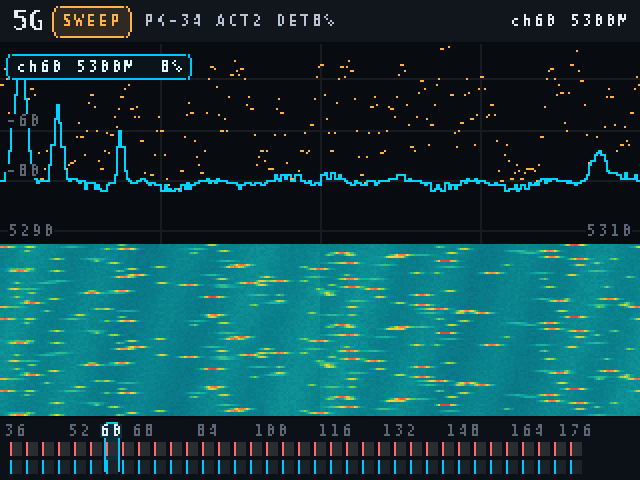
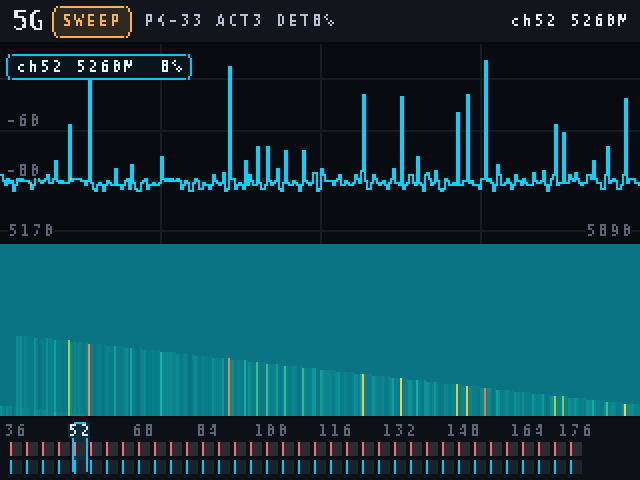
fix(c5): stitch the sweep into a fixed-frequency waterfall
Each acquisition now refreshes only its own channel's slice of a band-wide image,
mirroring the phone app, instead of stretching one 20 MHz window across the whole
screen. The waterfall therefore scrolls over a stable frequency axis, and peak hold
decays 2 dB per completed sweep.

diff --git a/docs/lcd-ui-preview.html b/docs/lcd-ui-preview.html
@@ -154,7 +154,11 @@ let lastStep = 0;
 let acqTick = 0;
 
 const codes = new Uint8Array(FFT_BINS);
-const peak = new Uint8Array(FFT_BINS);
+/* Stitched band image, one entry per pixel column (same idea as the phone app): each
+   acquisition refreshes only its own channel's slice, so the waterfall keeps a fixed
+   frequency axis while the sweep walks across it. */
+const bandCodes = new Uint8Array(320);
+const bandPeak = new Uint8Array(320);
 const chPk = new Uint8Array(36), chAct = new Uint8Array(36), chDet = new Uint8Array(36);
 let haveData = false;
 let pk_db = 0, act_db = 0, det_pct = 0;
@@ -277,8 +281,6 @@ function levelOf(code, h) {
   let lv = ((db - cfg.bottom_db) * h / range) | 0;
   return Math.max(0, Math.min(h, lv));
 }
-function displayBin(x, w) { return ((x * FFT_BINS / w | 0) + FFT_BINS / 2) % FFT_BINS; }
-
 /* ---- 模拟 RF：按信道频率生成稳定的信号 + 每次采集的抖动 ---- */
 function hash32(n) {
   n = (n | 0) ^ 0x9e3779b9;
@@ -331,19 +333,36 @@ function analyse() {
 
 function waterfallPush() {
   const row = wfNext * WF_STRIDE;
-  for (let x = 0; x < W; x++) wf[row + x] = codes[displayBin(x, W)];
+  for (let x = 0; x < W; x++) wf[row + x] = bandCodes[x];
   wfNext = (wfNext + 1) % L.wf_h;
 }
 
 function acquire() {
   const count = bandCount();
-  if (cfg.mode === 0) { scan_index = (scan_index + 1) % count; channel = scan_index; }
+  const sweep = cfg.mode === 0;
+  if (sweep) {
+    scan_index = (scan_index + 1) % count;
+    channel = scan_index;
+    if (scan_index === 0) {
+      /* one full pass done: 2 dB of peak-hold decay, like the phone app */
+      for (let x = 0; x < W; x++) if (bandPeak[x]) bandPeak[x]--;
+    }
+  } else {
+    for (let x = 0; x < W; x++) if (bandPeak[x]) bandPeak[x]--;
+  }
   const mhz = bandMhz(channel);
   makeCodes(mhz, acqTick++, codes);
   haveData = true;
-  for (let j = 0; j < FFT_BINS; j++) {
-    if (codes[j] >= peak[j]) peak[j] = codes[j];
-    else if (peak[j]) peak[j]--;
+  const lo = sweep ? (channel * W / count | 0) : 0;
+  let hi = sweep ? ((channel + 1) * W / count | 0) : W;
+  if (hi <= lo) hi = lo + 1;
+  if (hi > W) hi = W;
+  const span = hi - lo;
+  for (let x = lo; x < hi; x++) {
+    const bin = Math.min(FFT_BINS - 1, ((x - lo) * FFT_BINS / span) | 0);
+    const v = codes[bin];
+    bandCodes[x] = v;
+    if (v >= bandPeak[x]) bandPeak[x] = v;
   }
   analyse();
   const lv = Math.max(0, Math.min(100, Math.trunc((pk_db - (cfg.bottom_db + 4)) * 100 / 50)));
@@ -408,9 +427,8 @@ function renderSpectrum() {
   if (haveData) {
     let prev = -1;
     for (let x = 0; x < w; x++) {
-      const b = displayBin(x, w);
-      const mean = levelOf(codes[b], h);
-      let hold = levelOf(peak[b], h);
+      const mean = levelOf(bandCodes[x], h);
+      let hold = levelOf(bandPeak[x], h);
       if (hold < mean) hold = mean;
       let y = h - 1 - mean;
       if (y < 0) y = 0;
@@ -431,8 +449,10 @@ function renderSpectrum() {
     text(3, L.spec_y + y - 8, String(db), C.dim, C.specBg, false);
   }
   const shown = usbActive ? hostFreq : bandMhz(channel);
-  text(4, L.spec_y + h - 10, String(shown - 10), C.dim, C.specBg, false);
-  const hiTxt = String(shown + 10);
+  let loMhz = shown - 10, hiMhz = shown + 10;
+  if (!usbActive && cfg.mode === 0) { loMhz = bandMhz(0) - 10; hiMhz = bandMhz(bandCount() - 1) + 10; }
+  text(4, L.spec_y + h - 10, String(loMhz), C.dim, C.specBg, false);
+  const hiTxt = String(hiMhz);
   text(w - 4 - textW(hiTxt), L.spec_y + h - 10, hiTxt, C.dim, C.specBg, false);
   if (cfg.mode === 1) {
     for (let y = 0; y < h; y += 5) fillRect(w / 2 | 0, L.spec_y + y, 1, Math.min(3, h - y), C.glow);
@@ -647,7 +667,9 @@ function adjustLimit(top, dir) {
 function toggleBand() {
   cfg.band = cfg.band === 1 ? 0 : 1;
   channel = scan_index = 0;
-  peak.fill(0);
+  bandCodes.fill(0); bandPeak.fill(0);
+  wf.fill(0);
+  wfNext = 0;
   chPk.fill(0); chAct.fill(0); chDet.fill(0);
   haveData = false;
   saveCfg();
@@ -665,6 +687,9 @@ function toggleRotation() {
   cfg.landscape = cfg.landscape ? 0 : 1;
   allocBuffer();
   wfNext = 0;
+  bandCodes.fill(0); bandPeak.fill(0);
+  wf.fill(0);
+  haveData = false;
   saveCfg();
   buzz('mode');
 }
@@ -677,7 +702,7 @@ function resetDefaults() {
   lastStep = 0;
   allocBuffer();
   wfNext = 0;
-  peak.fill(0);
+  bandCodes.fill(0); bandPeak.fill(0);
   chPk.fill(0); chAct.fill(0); chDet.fill(0);
   wf.fill(0);
   haveData = false;
@@ -822,7 +847,7 @@ loadCfg();
 allocBuffer();
 if (cfg.landscape) { /* already */ }
 channel = 0; scan_index = 0;
-wf.fill(0); peak.fill(0);
+wf.fill(0); bandCodes.fill(0); bandPeak.fill(0);
 haveData = false;
 render();
 requestAnimationFrame(frame);

diff --git a/main/local_ui/ui.c b/main/local_ui/ui.c
@@ -58,7 +58,11 @@ static layout_t layout;
 static uint8_t channel;    /* selected channel index inside the band */
 static uint8_t scan_index; /* sweep position */
 static uint8_t codes[FFT_BINS];
-static uint8_t peak[FFT_BINS];
+/* Stitched band image, one entry per pixel column (same idea as the phone app): every
+ * acquisition only refreshes the columns of the channel it captured, so the waterfall
+ * keeps a fixed frequency axis while the sweep walks across it. */
+static uint8_t band_codes[320];
+static uint8_t band_peak[320];
 static bool have_data;
 static bool muted;
 static bool usb_active;
@@ -134,8 +138,6 @@ static int level_of(unsigned code, unsigned h) {
     if (level > (int)h) level = (int)h;
     return level;
 }
-
-static unsigned display_bin(unsigned x, unsigned w) { return (x * FFT_BINS / w + FFT_BINS / 2) % FFT_BINS; }
 
 static unsigned text_w(const char *s) { return (unsigned)strlen(s) * (FONT5X7_W + 1) - 1; }
 
@@ -243,9 +245,8 @@ static void render_spectrum(unsigned w) {
     if (have_data) {
         int prev = -1;
         for (unsigned x = 0; x < w; x++) {
-            unsigned bin = display_bin(x, w);
-            int mean = level_of(codes[bin], h);
-            int hold = level_of(peak[bin], h);
+            int mean = level_of(band_codes[x], h);
+            int hold = level_of(band_peak[x], h);
             if (hold < mean) hold = mean;
             int y = (int)h - 1 - mean;
             if (y < 0) y = 0;
@@ -271,9 +272,20 @@ static void render_spectrum(unsigned w) {
     }
 
     unsigned shown = usb_active ? sdr_ui_frequency() : band_mhz(channel);
-    snprintf(line, sizeof(line), "%u", shown - 10);
+    unsigned lo_mhz, hi_mhz;
+    if (usb_active) {
+        lo_mhz = shown - 10;
+        hi_mhz = shown + 10;
+    } else if (cfg.mode == UI_MODE_SWEEP) {
+        lo_mhz = band_mhz(0) - 10;
+        hi_mhz = band_mhz(band_count() - 1) + 10;
+    } else {
+        lo_mhz = shown - 10;
+        hi_mhz = shown + 10;
+    }
+    snprintf(line, sizeof(line), "%u", lo_mhz);
     ui_text(4, layout.spec_y + h - FONT5X7_H - 3, line, COL_DIM, COL_SPEC_BG, false);
-    snprintf(line, sizeof(line), "%u", shown + 10);
+    snprintf(line, sizeof(line), "%u", hi_mhz);
     unsigned tw = text_w(line);
     ui_text(w - 4 - tw, layout.spec_y + h - FONT5X7_H - 3, line, COL_DIM, COL_SPEC_BG, false);
 
@@ -445,25 +457,43 @@ static void waterfall_push(void) {
     unsigned w = lcd_width();
     unsigned rows = layout.wf_h;
     uint8_t *row = wf + wf_next * WF_STRIDE;
-    for (unsigned x = 0; x < w; x++) row[x] = codes[display_bin(x, w)];
+    if (w > WF_STRIDE) w = WF_STRIDE;
+    memcpy(row, band_codes, w);
     wf_next = (wf_next + 1) % rows;
 }
 
 static void acquire(void) {
+    unsigned w = lcd_width();
     unsigned count = band_count();
-    if (cfg.mode == UI_MODE_SWEEP) {
+    bool sweep = cfg.mode == UI_MODE_SWEEP;
+    if (sweep) {
         scan_index = (uint8_t)((scan_index + 1) % count);
         channel = scan_index;
+        if (scan_index == 0) {
+            /* one full pass done: 2 dB of peak-hold decay, like the phone app */
+            for (unsigned x = 0; x < w; x++)
+                if (band_peak[x]) band_peak[x]--;
+        }
+    } else {
+        for (unsigned x = 0; x < w; x++)
+            if (band_peak[x]) band_peak[x]--;
     }
     unsigned mhz = band_mhz(channel);
     unsigned elapsed = 0;
     if (!sdr_ui_spectrum(mhz, FFT_BINS, RATE_CODE, codes, &elapsed)) return;
     have_data = true;
-    for (unsigned j = 0; j < FFT_BINS; j++) {
-        if (codes[j] >= peak[j])
-            peak[j] = codes[j];
-        else if (peak[j])
-            peak[j]--;
+
+    unsigned lo = sweep ? (unsigned)channel * w / count : 0;
+    unsigned hi = sweep ? (unsigned)(channel + 1) * w / count : w;
+    if (hi <= lo) hi = lo + 1;
+    if (hi > w) hi = w;
+    unsigned span = hi - lo;
+    for (unsigned x = lo; x < hi; x++) {
+        unsigned bin = (x - lo) * FFT_BINS / span;
+        if (bin >= FFT_BINS) bin = FFT_BINS - 1;
+        uint8_t v = codes[bin];
+        band_codes[x] = v;
+        if (v >= band_peak[x]) band_peak[x] = v;
     }
     analyse();
     stats_store();
@@ -497,7 +527,10 @@ static void adjust_limit(bool top, int direction) {
 static void toggle_band(void) {
     cfg.band = cfg.band == UI_BAND_5G ? UI_BAND_24G : UI_BAND_5G;
     channel = scan_index = 0;
-    memset(peak, 0, sizeof(peak));
+    memset(band_codes, 0, sizeof(band_codes));
+    memset(band_peak, 0, sizeof(band_peak));
+    memset(wf, 0, WF_STRIDE * WF_ROWS_MAX);
+    wf_next = 0;
     memset(ch_pk, 0, sizeof(ch_pk));
     memset(ch_act, 0, sizeof(ch_act));
     memset(ch_det, 0, sizeof(ch_det));
@@ -519,6 +552,10 @@ static void toggle_rotation(void) {
     lcd_set_rotation(cfg.landscape != 0);
     layout_build();
     wf_next = 0;
+    memset(band_codes, 0, sizeof(band_codes));
+    memset(band_peak, 0, sizeof(band_peak));
+    memset(wf, 0, WF_STRIDE * WF_ROWS_MAX);
+    have_data = false;
     ui_settings_save(&cfg);
     buzzer_play(UI_BUZZ_MODE);
     full_clear = true;
@@ -537,7 +574,8 @@ static void reset_defaults(void) {
     lcd_set_rotation(cfg.landscape != 0);
     layout_build();
     wf_next = 0;
-    memset(peak, 0, sizeof(peak));
+    memset(band_codes, 0, sizeof(band_codes));
+    memset(band_peak, 0, sizeof(band_peak));
     memset(ch_pk, 0, sizeof(ch_pk));
     memset(ch_act, 0, sizeof(ch_act));
     memset(ch_det, 0, sizeof(ch_det));

diff --git a/README.md b/README.md
@@ -50,7 +50,7 @@ have been too much work.
 The `lcd` branch adds an optional front panel to the C5 build: a 320×240
 ST7789 SPI display, five keys and a buzzer, driven by the firmware itself — no
 host required. A prebuilt image is attached to the
-[`c5-lcd-2`](https://github.com/sd1471123/esp-sdr/releases/tag/c5-lcd-2)
+[`c5-lcd-3`](https://github.com/sd1471123/esp-sdr/releases/tag/c5-lcd-3)
 release.
 
 ![ESP32-C5 front panel: 5 GHz sweep with cyan trace, amber peak hold, dB grid, waterfall and per-channel DET/ACT strip](docs/lcd-ui-preview.png)
@@ -59,7 +59,10 @@ The panel follows the approved dark-panel design: band label and a `SWEEP` /
 `LIVE` pill, `PK`/`ACT`/`DET` readout and the current channel on top; a cyan
 spectrum trace with an amber dashed peak-hold line and a 20 dB grid; a
 cool-to-hot waterfall; and a channel strip with per-channel `DET`/`ACT` bars
-filled in as the sweep visits each channel. An interactive simulation of the same screen (same fonts,
+filled in as the sweep visits each channel. Like the phone app, every capture
+refreshes only its own 20 MHz slice of a stitched band, so the waterfall keeps a
+fixed frequency axis while the sweep walks across it, and the peak hold decays
+2 dB per completed sweep. An interactive simulation of the same screen (same fonts,
 colours, layout, key handling and timings) is in
 [`docs/lcd-ui-preview.html`](docs/lcd-ui-preview.html) — download it and open it
 in a browser. While a USB/UART host is streaming, the panel stops retuning,
